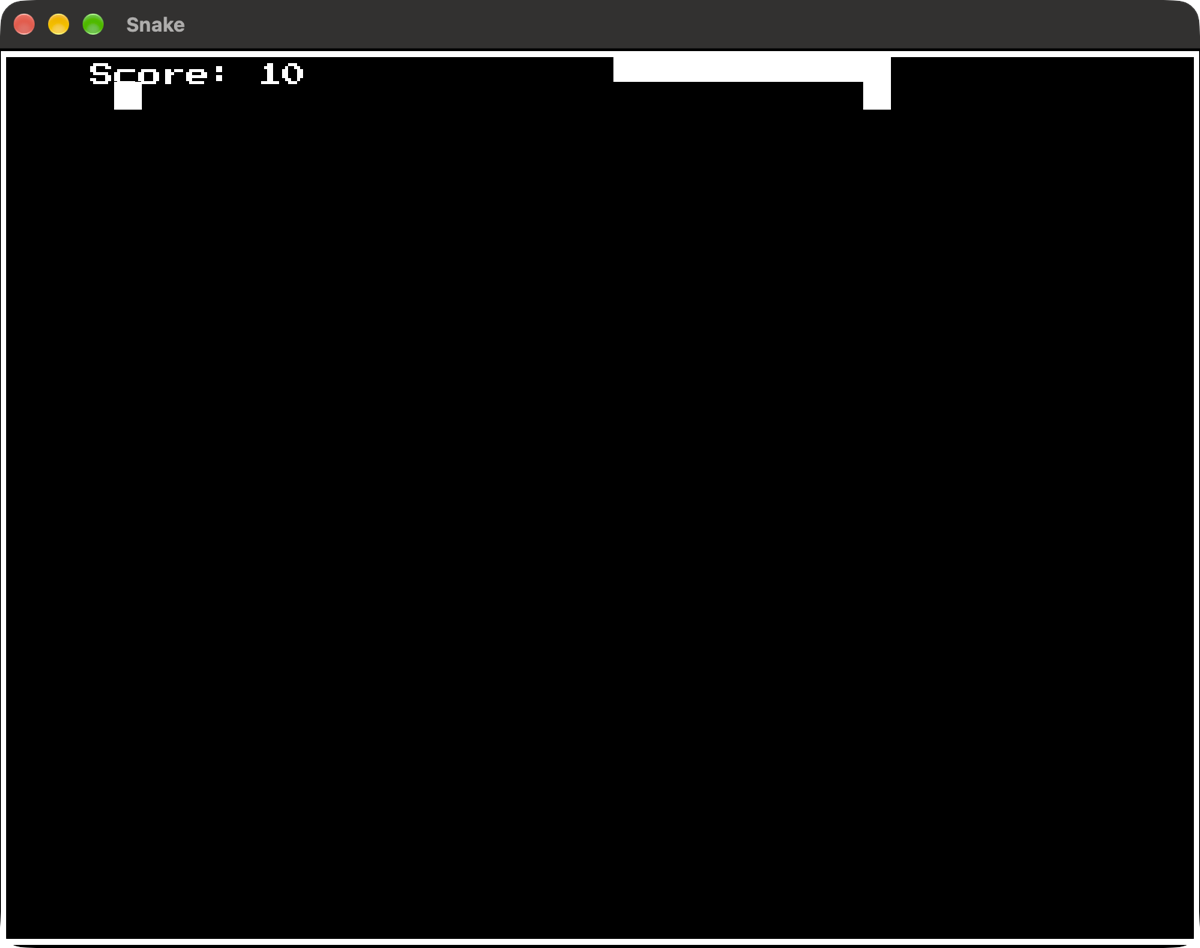
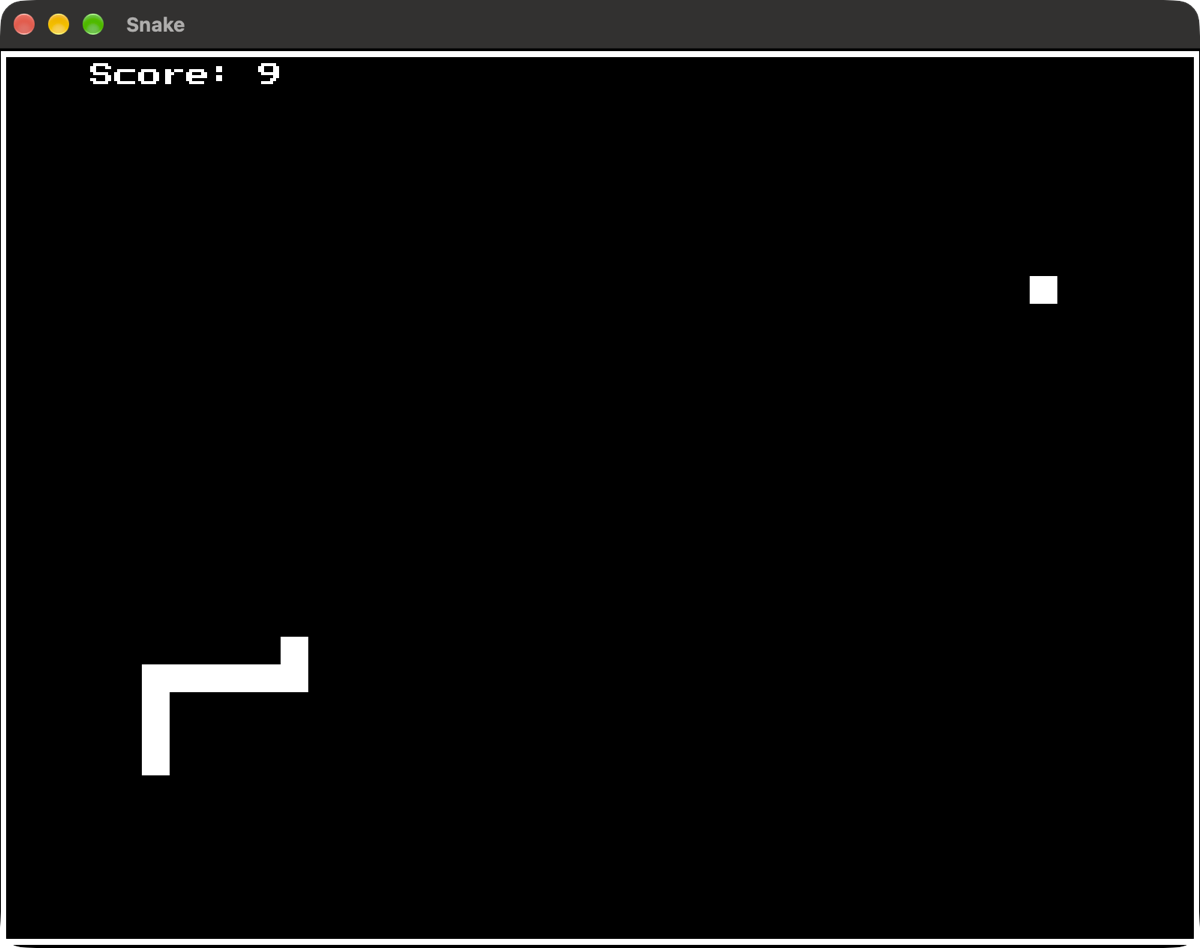
Use a frame where the snake winds
Two turns rather than one, and clear of the board's edge so the body does not
run into the border. A snake that has wound twice reads as a snake; a bar
pressed against the top of the frame reads as part of the interface.

diff --git a/README.md b/README.md
@@ -2,7 +2,7 @@
 
 In which I develop a snake game using blitzkit
 
-![Snake: the snake running along the top of the board and turning down at the end, a pellet near the score](media/screenshot.png)
+![Snake: a nine segment snake winding through two turns in the lower left of the board, with a pellet away to the upper right](media/screenshot.png)
 
 ## The project
 
